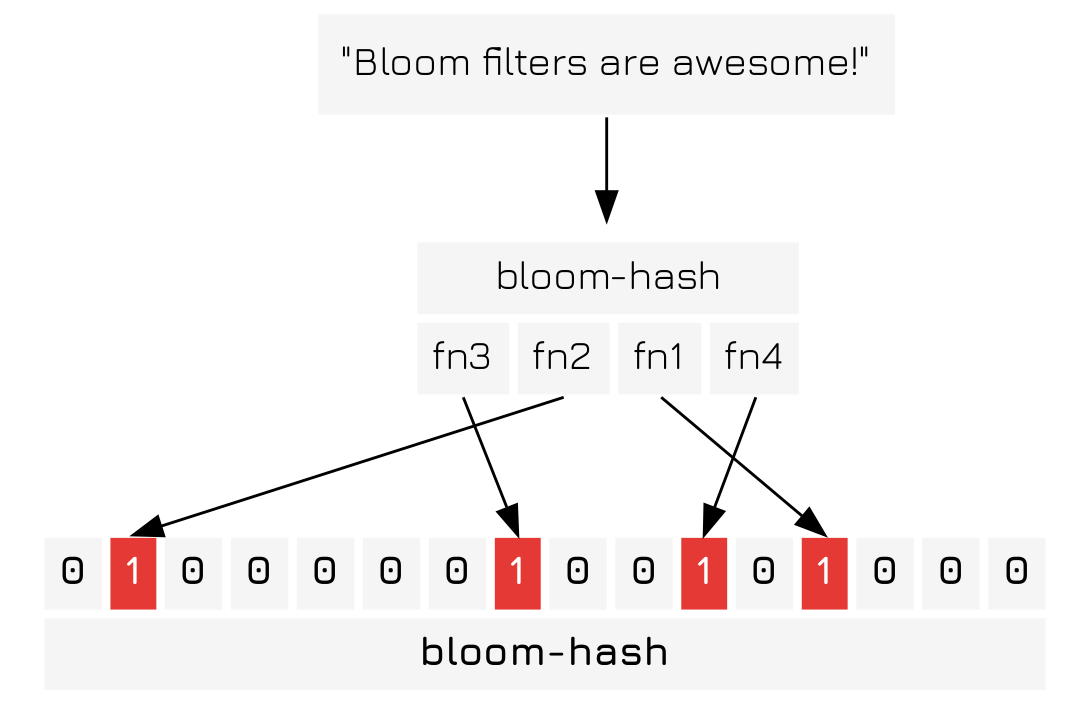
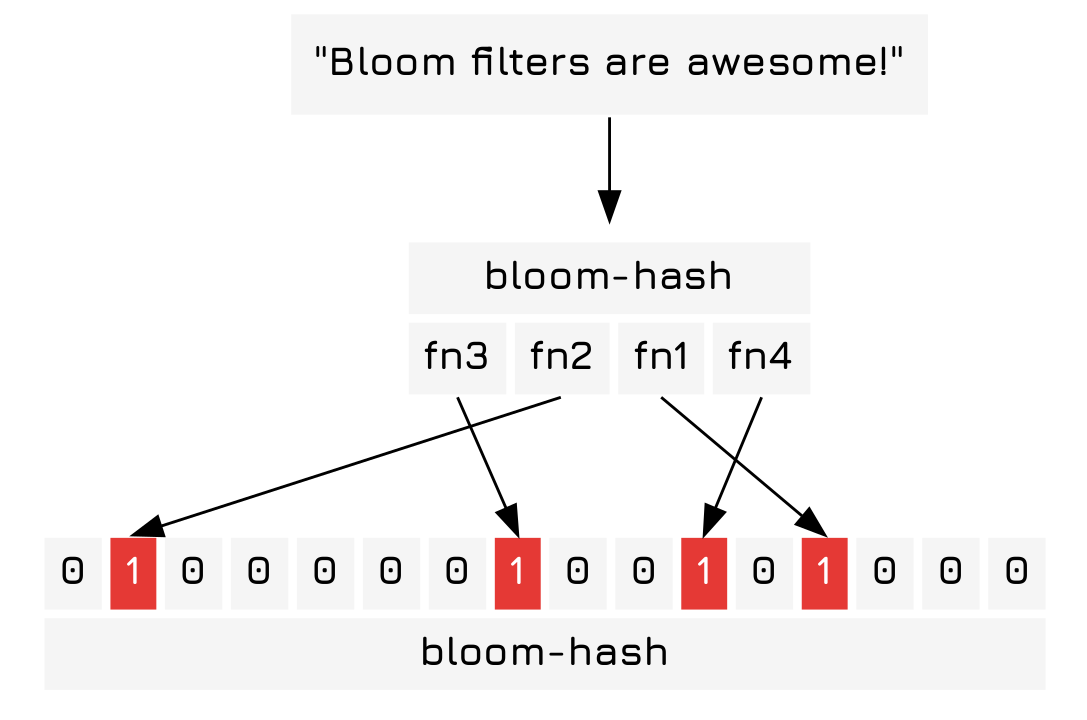
Switched all text in bloom filter graphs to bold.

diff --git a/bloom-filters.html b/bloom-filters.html
@@ -3,7 +3,7 @@
 "http://www.w3.org/TR/xhtml1/DTD/xhtml1-strict.dtd">
 <html xmlns="http://www.w3.org/1999/xhtml" lang="en" xml:lang="en">
 <head>
-<!-- 2021-W47-6 19:38 -->
+<!-- 2021-W47-6 19:42 -->
 <meta http-equiv="Content-Type" content="text/html;charset=utf-8" />
 <meta name="viewport" content="width=device-width, initial-scale=1" />
 <title>Implementing Bloom Filters</title>
@@ -49,12 +49,12 @@
 <li><a href="#orgb9a684b">Example</a></li>
 <li><a href="#org013eef9">Hash Function</a>
 <ul>
-<li><a href="#org2204fd6">pads</a></li>
-<li><a href="#org640b9a2">hash-obj</a></li>
-<li><a href="#org2ed0a66">bloom-hash</a></li>
+<li><a href="#org05bf635">pads</a></li>
+<li><a href="#org89328bc">hash-obj</a></li>
+<li><a href="#org7aaca00">bloom-hash</a></li>
 </ul>
 </li>
-<li><a href="#org3735fda">optimal-k</a></li>
+<li><a href="#orgb232e80">optimal-k</a></li>
 <li><a href="#org2a8f461">Bloom Filter Objects</a>
 <ul>
 <li><a href="#orgc01cbaf">Bloom Filter Methods</a></li>
@@ -95,7 +95,7 @@ Bloom filters are really simple if you know how hash functions work. You create 
 The string <code>"Bloom filters are awesome!"</code> is hashed in a simple bloom filter of \(m=16\), \(k=4\) and converted into a list of indicies who are set to the <code>true</code>, or in this case <code>1</code>.
 </p>
 
-<div id="org55e02d7" class="figure">
+<div id="org7e44b9d" class="figure">
 <p><img src="./images/bloom-filter-add-1_6a931db0-db9f-4ea8-8f88-7fba73d52576.png" alt="bloom-filter-add-1_6a931db0-db9f-4ea8-8f88-7fba73d52576.png" />
 </p>
 </div>
@@ -104,7 +104,7 @@ The string <code>"Bloom filters are awesome!"</code> is hashed in a simple bloom
 Next we add the string <code>"Hello World."</code> to our bloom filter.
 </p>
 
-<div id="org17f0c91" class="figure">
+<div id="org6e70aca" class="figure">
 <p><img src="./images/bloom-filter-add-2_6a931db0-db9f-4ea8-8f88-7fba73d52576.png" alt="bloom-filter-add-2_6a931db0-db9f-4ea8-8f88-7fba73d52576.png" />
 </p>
 </div>
@@ -113,7 +113,7 @@ Next we add the string <code>"Hello World."</code> to our bloom filter.
 To determine if something is in the set we can check the indices output by our hash functions are set to 1 when we hash an object. If all of them are set to <code>1</code> it is <i>probably</i> within the bloom filter. If any one of them is <code>0</code> then it is <i>definitely not</i> in the bloom filter.
 </p>
 
-<div id="org17f9104" class="figure">
+<div id="orgcba4c26" class="figure">
 <p><img src="./images/bloom-filter-add-3_6a931db0-db9f-4ea8-8f88-7fba73d52576.png" alt="bloom-filter-add-3_6a931db0-db9f-4ea8-8f88-7fba73d52576.png" />
 </p>
 </div>
@@ -131,14 +131,14 @@ And now we can clearly see that <code>27</code> is in the bloom fitler&#x2026; o
 Here we implement a simple folding hash function that takes arguments and then folds them over a list.
 </p>
 </div>
-<div id="outline-container-org2204fd6" class="outline-4">
-<h4 id="org2204fd6">pads</h4>
-<div class="outline-text-4" id="text-org2204fd6">
+<div id="outline-container-org05bf635" class="outline-4">
+<h4 id="org05bf635">pads</h4>
+<div class="outline-text-4" id="text-org05bf635">
 <p>
 The bloom filter requires a series of different hash functions. To generate them we simply use a list of large prime number <code>pads</code> that produce hash functions that yield wildly different outputs.
 </p>
 <div class="org-src-container">
-<pre class="src src-clojure" id="orgc6658b8"><span style="color: #494949;">(</span><span style="color: #E53935; font-style: italic;">def</span> ^<span style="color: #E53935;">:private</span> <span style="font-style: italic;">pads</span> <span style="color: #bbb;">[</span>3484115242153581271N
+<pre class="src src-clojure" id="org2204fd6"><span style="color: #494949;">(</span><span style="color: #E53935; font-style: italic;">def</span> ^<span style="color: #E53935;">:private</span> <span style="font-style: italic;">pads</span> <span style="color: #bbb;">[</span>3484115242153581271N
                      8024590393702697081N
                      4268910574050118391N
                      5802681426294560369N
@@ -151,14 +151,14 @@ The bloom filter requires a series of different hash functions. To generate them
 </div>
 </div>
 
-<div id="outline-container-org640b9a2" class="outline-4">
-<h4 id="org640b9a2">hash-obj</h4>
-<div class="outline-text-4" id="text-org640b9a2">
+<div id="outline-container-org89328bc" class="outline-4">
+<h4 id="org89328bc">hash-obj</h4>
+<div class="outline-text-4" id="text-org89328bc">
 <p>
 Now here's the simple hash function that I was talking about earlier. As you can see it simply converts the object into a string, the string into a series of numbers, and then folds the string over itself with modular multiplication, basically ignoring overflows.
 </p>
 <div class="org-src-container">
-<pre class="src src-clojure" id="orgba2cb62"><span style="color: #494949;">(</span><span style="color: #E53935; font-style: italic;">defn</span> <span style="font-weight: bold; font-style: italic;">hash-obj</span> <span style="color: #bbb;">[</span>obj pad<span style="color: #bbb;">]</span>
+<pre class="src src-clojure" id="org640b9a2"><span style="color: #494949;">(</span><span style="color: #E53935; font-style: italic;">defn</span> <span style="font-weight: bold; font-style: italic;">hash-obj</span> <span style="color: #bbb;">[</span>obj pad<span style="color: #bbb;">]</span>
   <span style="color: #bbb;">(</span><span style="color: #E53935; font-style: italic;">-&gt;&gt;</span> <span style="color: #494949;">(</span>str obj<span style="color: #494949;">)</span>
        <span style="color: #494949;">(</span>map int<span style="color: #494949;">)</span>
        <span style="color: #494949;">(</span>apply <span style="color: #bbb;">(</span><span style="color: #E53935; font-style: italic;">fn</span> <span style="color: #494949;">[</span>x &amp; xs<span style="color: #494949;">]</span>
@@ -170,14 +170,14 @@ Now here's the simple hash function that I was talking about earlier. As you can
 </div>
 </div>
 
-<div id="outline-container-org2ed0a66" class="outline-4">
-<h4 id="org2ed0a66">bloom-hash</h4>
-<div class="outline-text-4" id="text-org2ed0a66">
+<div id="outline-container-org7aaca00" class="outline-4">
+<h4 id="org7aaca00">bloom-hash</h4>
+<div class="outline-text-4" id="text-org7aaca00">
 <p>
 The <code>bloom-hash</code> function is trivial and <del>is left as an exercise to the reader</del> simply generates a hash function using the prime numbers and then hashes the object for each one. Following that it takes the modulus of \(m\) to produce the index. There are up to 7 pads that may be used for the number, meaning the maximum value of \(k\) is 7.
 </p>
 <div class="org-src-container">
-<pre class="src src-clojure" id="orga61860a"><span style="color: #494949;">(</span><span style="color: #E53935; font-style: italic;">defn</span> <span style="font-weight: bold; font-style: italic;">bloom-hash</span>
+<pre class="src src-clojure" id="org2ed0a66"><span style="color: #494949;">(</span><span style="color: #E53935; font-style: italic;">defn</span> <span style="font-weight: bold; font-style: italic;">bloom-hash</span>
   <span style="color: #bbb;">(</span><span style="color: #494949;">[</span>obj<span style="color: #494949;">]</span> <span style="color: #494949;">(</span>bloom-hash obj 1000<span style="color: #494949;">)</span><span style="color: #bbb;">)</span>
   <span style="color: #bbb;">(</span><span style="color: #494949;">[</span>obj m<span style="color: #494949;">]</span> <span style="color: #494949;">(</span>bloom-hash obj m 4<span style="color: #494949;">)</span><span style="color: #bbb;">)</span>
   <span style="color: #bbb;">(</span><span style="color: #494949;">[</span>obj m k<span style="color: #494949;">]</span> <span style="color: #494949;">(</span>map #<span style="color: #bbb;">(</span>mod <span style="color: #494949;">(</span>hash-obj obj <span style="font-style: italic;">%</span><span style="color: #494949;">)</span> m<span style="color: #bbb;">)</span> <span style="color: #bbb;">(</span>take k pads<span style="color: #bbb;">)</span><span style="color: #494949;">)</span><span style="color: #bbb;">)</span><span style="color: #494949;">)</span>
@@ -187,9 +187,9 @@ The <code>bloom-hash</code> function is trivial and <del>is left as an exercise 
 </div>
 </div>
 
-<div id="outline-container-org3735fda" class="outline-3">
-<h3 id="org3735fda">optimal-k</h3>
-<div class="outline-text-3" id="text-org3735fda">
+<div id="outline-container-orgb232e80" class="outline-3">
+<h3 id="orgb232e80">optimal-k</h3>
+<div class="outline-text-3" id="text-orgb232e80">
 <p>
 To find the optimal \(k\) we use the following equation
 </p>
@@ -203,7 +203,7 @@ To find the optimal \(k\) we use the following equation
 Where \(k\) is the number of hash functions, \(m\) is the size of the filter, and \(n\) is the number items that are expected to be added to the filter. This must be computed before the filter is used, and therefore likely will be slightly inaccurate.<label class="sidenote-number" for="3"><sup>3</sup></label><input checked="checked" id="3" style="display: none" type="checkbox" /><span class="sidenote"><span class="sidenote-number"> 3</span> I think that you probably could use some sort of very simple adaptive control system to minimize the error over many uses. (yes, I am intentionally avoiding saying "AI".)</span> This may be a problem should the sets be an unexpected size.
 </p>
 <div class="org-src-container">
-<pre class="src src-clojure" id="org2775e6a"><span style="color: #494949;">(</span><span style="color: #E53935; font-style: italic;">defn</span> <span style="font-weight: bold; font-style: italic;">optimal-k</span>
+<pre class="src src-clojure" id="org3735fda"><span style="color: #494949;">(</span><span style="color: #E53935; font-style: italic;">defn</span> <span style="font-weight: bold; font-style: italic;">optimal-k</span>
   <span style="color: #bbb;">[</span>m n<span style="color: #bbb;">]</span>
   <span style="color: #bbb;">(</span><span style="color: #E53935; font-style: italic;">-&gt;</span> <span style="color: #494949;">(</span>/ m n<span style="color: #494949;">)</span>
       <span style="color: #494949;">(</span>* <span style="color: #bbb;">(</span><span style="color: #E53935;">Math</span>/log 2.0<span style="color: #bbb;">)</span><span style="color: #494949;">)</span>
@@ -341,7 +341,7 @@ Now you should have a rough idea on how a bloom filter works and how to implemen
 
  --></div>
 <div id="postamble" class="status">
-<p class="date">Last Modified: 2021-W47-6 19:38</p><p class="creator">Generated Using: <a href="https://www.gnu.org/software/emacs/">Emacs</a> 27.2 (<a href="https://orgmode.org">Org</a> mode 9.4.6)</p><p class="license">Except where otherwise noted content on <a href="https://cons.dev">cons.dev</a> is licensed under a <a href="https://creativecommons.org/licenses/by-sa/4.0/" rel="license">Creative Commons Attribution-ShareAlike 4.0 International License</a>.</p>
+<p class="date">Last Modified: 2021-W47-6 19:42</p><p class="creator">Generated Using: <a href="https://www.gnu.org/software/emacs/">Emacs</a> 27.2 (<a href="https://orgmode.org">Org</a> mode 9.4.6)</p><p class="license">Except where otherwise noted content on <a href="https://cons.dev">cons.dev</a> is licensed under a <a href="https://creativecommons.org/licenses/by-sa/4.0/" rel="license">Creative Commons Attribution-ShareAlike 4.0 International License</a>.</p>
 </div>
 </body>
 </html>

diff --git a/sitemap.html b/sitemap.html
@@ -3,7 +3,7 @@
 "http://www.w3.org/TR/xhtml1/DTD/xhtml1-strict.dtd">
 <html xmlns="http://www.w3.org/1999/xhtml" lang="en" xml:lang="en">
 <head>
-<!-- 2021-W47-6 19:38 -->
+<!-- 2021-W47-6 19:42 -->
 <meta http-equiv="Content-Type" content="text/html;charset=utf-8" />
 <meta name="viewport" content="width=device-width, initial-scale=1" />
 <title>(cons dev sitemap)</title>
@@ -35,7 +35,7 @@
 </ul>
 </div>
 <div id="postamble" class="status">
-<p class="date">Last Modified: 2021-W47-6 19:38</p><p class="creator">Generated Using: <a href="https://www.gnu.org/software/emacs/">Emacs</a> 27.2 (<a href="https://orgmode.org">Org</a> mode 9.4.6)</p><p class="license">Except where otherwise noted content on <a href="https://cons.dev">cons.dev</a> is licensed under a <a href="https://creativecommons.org/licenses/by-sa/4.0/" rel="license">Creative Commons Attribution-ShareAlike 4.0 International License</a>.</p>
+<p class="date">Last Modified: 2021-W47-6 19:42</p><p class="creator">Generated Using: <a href="https://www.gnu.org/software/emacs/">Emacs</a> 27.2 (<a href="https://orgmode.org">Org</a> mode 9.4.6)</p><p class="license">Except where otherwise noted content on <a href="https://cons.dev">cons.dev</a> is licensed under a <a href="https://creativecommons.org/licenses/by-sa/4.0/" rel="license">Creative Commons Attribution-ShareAlike 4.0 International License</a>.</p>
 </div>
 </body>
 </html>
